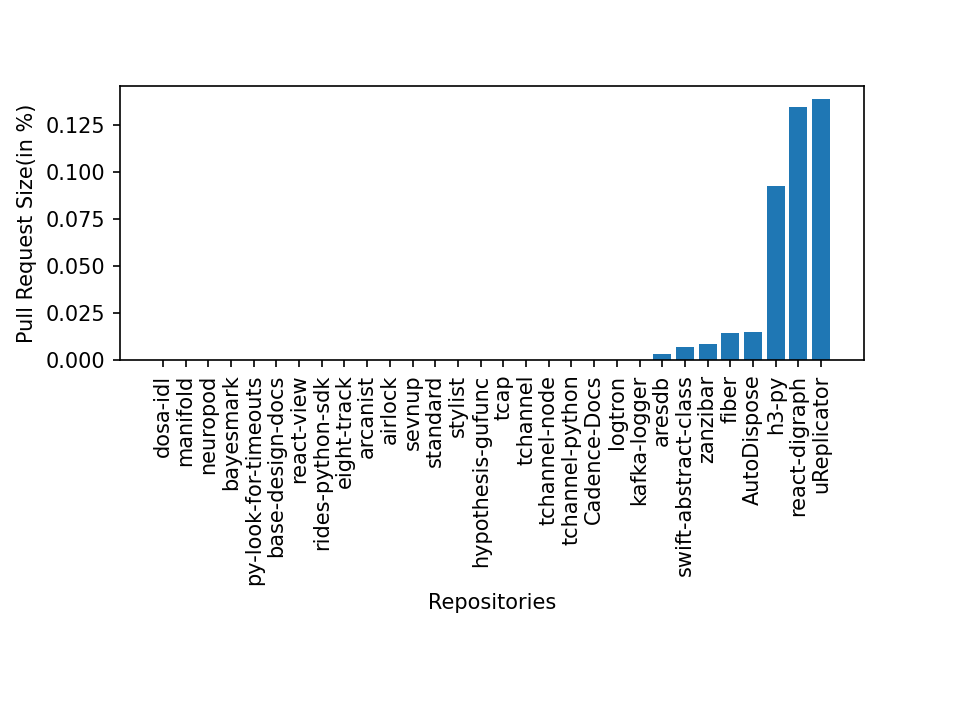
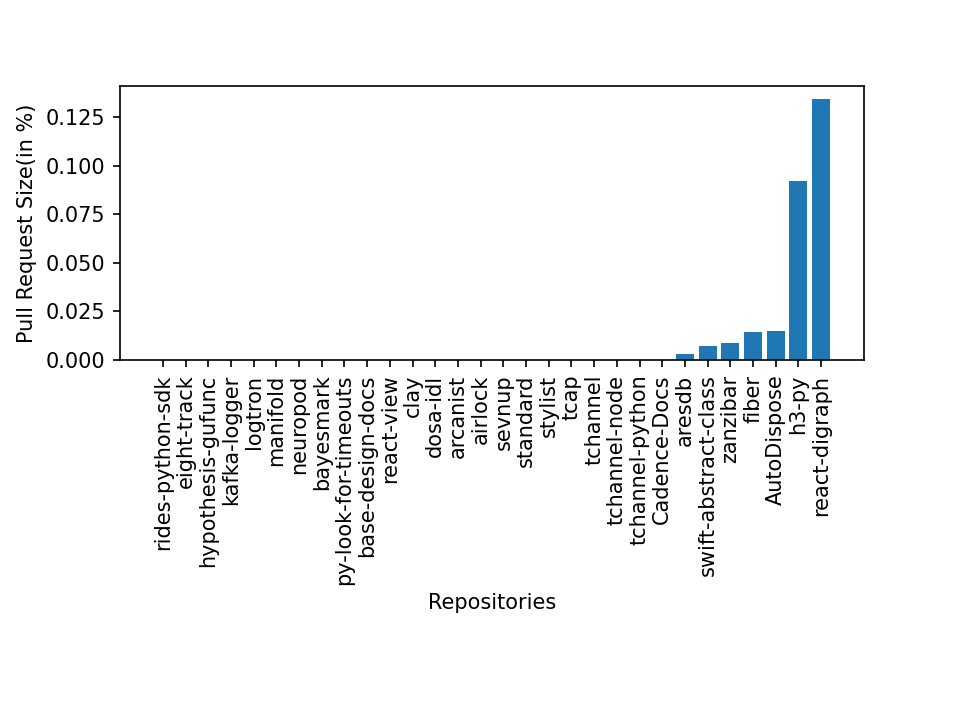
added a database

diff --git a/Script2.py b/Script2.py
@@ -1,4 +1,6 @@
 import json
+
+import pymongo
 import requests
 from pandas.io.json import json_normalize
 import pandas as pd
@@ -9,7 +11,10 @@ github_api = "https://api.github.com"
 session = requests.Session()
 session.auth = (config.GITHUB_USERNAME, config.GITHUB_TOKEN)
 
+conn = "mongodb://localhost:27017"
+client = pymongo.MongoClient(conn)
 
+db = client.classDB
 def pull_Requests(repo, owner, api):
     pullR = []
     next = True
@@ -29,26 +34,20 @@ def pull_Requests(repo, owner, api):
         return pullR
 
 pullCal = []
-repos = pd.read_csv('data/repo.csv')
-for i in repos['Org']:
-    org = i
-if os.path.exists('data/PRCount.csv'):
-    os.remove('data/PRCount.csv')
-for i in repos['repo']:
-    pullR = pull_Requests(i, org, github_api)
-    if pullR == []:
-        continue
+for i in db.repos.find():
+    org = i['Org']
+
+for i in db.repos.find():
+
     try:
-        pullR = pull_Requests(i, org, github_api)
+        pullR = pull_Requests(i['repo'], org, github_api)
+        if pullR == []:
+            continue
         pullCal = pullCal + pullR
     except:
-        print("Repo is read only. It's now deleted.")
+        print("Repo is read only. Skipping it")
 
-        repos_with_index = repos.set_index("repo")
-
-        repos2 = repos_with_index.drop(i, axis=0)
-        repos2.to_csv('data/repo.csv')
-json_normalize(pullCal).to_csv('data/PRCount.csv')
+db.pullR.insert_many((pullCal))
 
 
 

diff --git a/Script1.py b/Script1.py
@@ -1,5 +1,6 @@
 import json
 
+import pymongo
 import requests
 from pandas.io.json import json_normalize
 
@@ -14,6 +15,11 @@ url = github_api + '/repos/apache/spark/commits'
 commits = gh_session.get(url=url)
 commits_json = commits.json()
 flag = 0
+conn = "mongodb://localhost:27017"
+client = pymongo.MongoClient(conn)
+
+# Create a database
+db = client.classDB
 
 def branches_of_repo(repo, owner, api):
     branches = []
@@ -36,20 +42,18 @@ def branches_of_repo(repo, owner, api):
     return branches
 
 branchCount = []
-repos = pd.read_csv('data/repo.csv')
-for i in repos['Org']:
-    org = i
-for i in repos['repo']:
+for i in db.repos.find():
+    org = i['Org']
+for i in db.repos.find():
 
-        branches = (branches_of_repo(i, org, github_api))
+        branches = (branches_of_repo(i['repo'], org, github_api))
         if(flag == 0):
             bC = {"Repository": i, "No_of_branches": len(branches)}
             print(bC)
             branchCount = branchCount + [bC]
 
-branchCount = json_normalize(branchCount)
 
-branchCount.to_csv('data/branchCount.csv')
+db.branches.insert_many(branchCount)
 
 
 

diff --git a/visualization3.py b/visualization3.py
@@ -1,10 +1,18 @@
 import pandas as pd
 import matplotlib.pyplot as pp
+import pymongo
+from pandas.io.json import json_normalize
 
-pullR = pd.read_csv('data/PRCount.csv',on_bad_lines='skip')
+conn = "mongodb://localhost:27017"
+client = pymongo.MongoClient(conn)
 
-pullR['URL'] = pullR.url
+# Create a database
+db = client.classDB
+pullR = json_normalize(db.pullR.find())
+
+pullR['URL'] = pullR['url']
 pullR['repo']=pullR['base.repo.name']
+
 pullR['head_repo_size'] = pullR['head.repo.size']
 pullR['base_repo_size']=pullR['base.repo.size']
 pullR['PullR_Size']= ((abs(pullR['head_repo_size'] - pullR['base_repo_size']))/pullR['base_repo_size'])*100

diff --git a/visualization.py b/visualization.py
@@ -1,11 +1,17 @@
 import pandas as pd
 import matplotlib.pyplot as pp
+import pymongo
 
-branches = pd.read_csv('data/branchCount.csv')
+conn = "mongodb://localhost:27017"
+client = pymongo.MongoClient(conn)
+
+# Create a database
+db = client.classDB
+
+branches = pd.DataFrame(db.branches.find())
 
 
 branches = branches.sort_values(by = 'No_of_branches')
-
 count = []
 i=0
 
@@ -13,7 +19,7 @@ c=40
 branch = []
 x=[]
 for i in branches.Repository:
-    x = x + [i]
+    x = x + [i['repo']]
     if(c==0):
         break
     c=c-1

diff --git a/repos.py b/repos.py
@@ -1,6 +1,6 @@
 from github import Github  # github api access
 from pandas.io.json import json_normalize
-
+import pymongo
 import config
 
 g = Github(config.GITHUB_TOKEN)
@@ -14,6 +14,11 @@ for item in pr:
     fn = str.index('/')
     diction = [{"repo":str[(fn + 1):],"Org":str[0:fn]}]
     repo = repo + diction
-repo = json_normalize(repo)
 
-repo.to_csv('data/repo.csv')
+conn = "mongodb://localhost:27017"
+client = pymongo.MongoClient(conn)
+
+# Create a database
+db = client.classDB
+
+db.repos.insert_many(repo)

diff --git a/visualization2.py b/visualization2.py
@@ -1,7 +1,15 @@
 import matplotlib.pyplot as pp
 import pandas as pd
 
-branches = pd.read_csv('data/branchCount.csv')
+import pymongo
+
+conn = "mongodb://localhost:27017"
+client = pymongo.MongoClient(conn)
+
+# Create a database
+db = client.classDB
+
+branches = pd.DataFrame(db.branches.find())
 
 
 branches = branches.sort_values(by = 'No_of_branches')
@@ -12,7 +20,7 @@ c=0
 x=[]
 for i in branches.Repository:
     if(c+40>=count):
-        x = x + [i]
+        x = x + [i['repo']]
     c=c+1
 
 c=0

diff --git a/visualization4.py b/visualization4.py
@@ -1,7 +1,14 @@
 import pandas as pd
 import matplotlib.pyplot as pp
+import pymongo
+from pandas.io.json import json_normalize
 
-pullR = pd.read_csv('data/PRCount.csv',on_bad_lines='skip')
+conn = "mongodb://localhost:27017"
+client = pymongo.MongoClient(conn)
+
+# Create a database
+db = client.classDB
+pullR = json_normalize(db.pullR.find())
 
 pullR['URL'] = pullR.url
 pullR['repo']=pullR['base.repo.name']

diff --git a/config.py b/config.py
@@ -1,2 +1,2 @@
 GITHUB_USERNAME="Kinjal-16"
-GITHUB_TOKEN = "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"
+GITHUB_TOKEN = "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"
